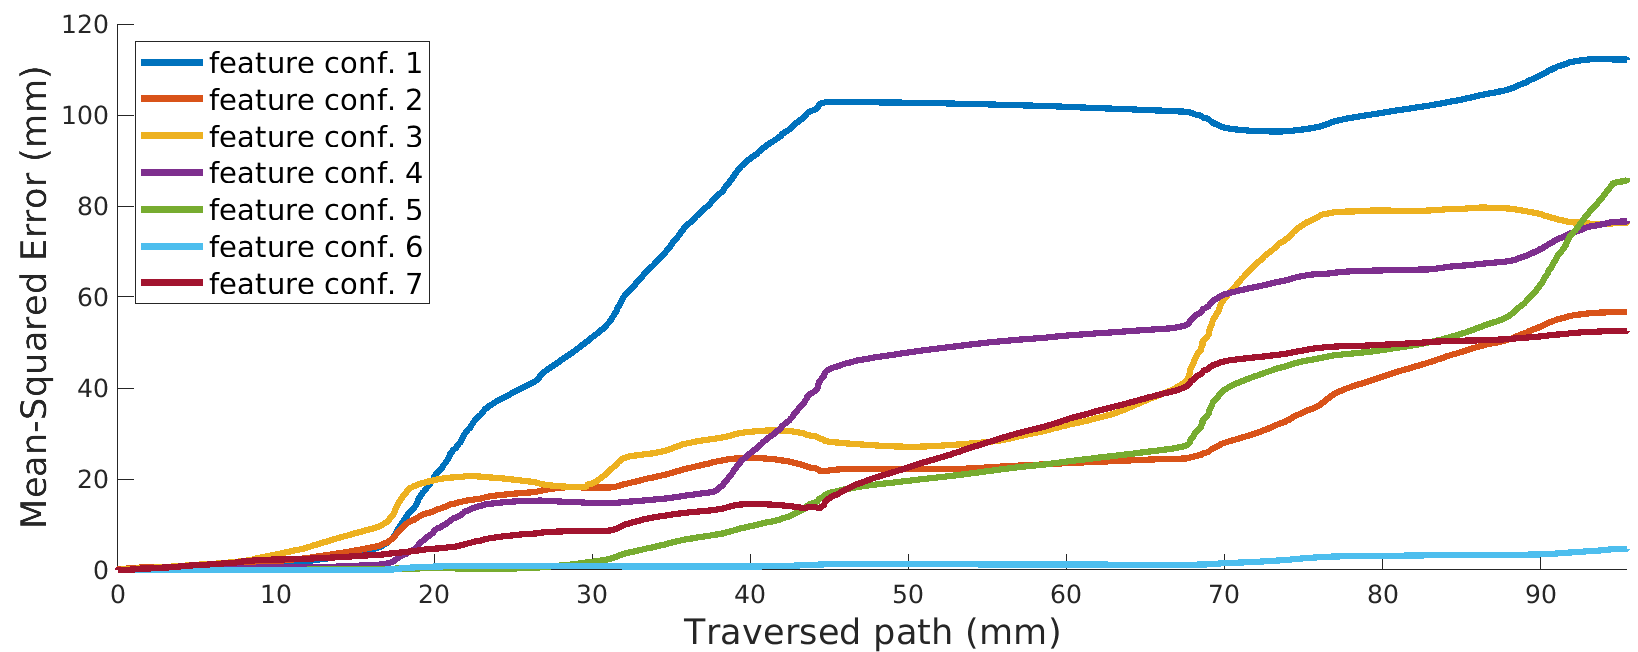
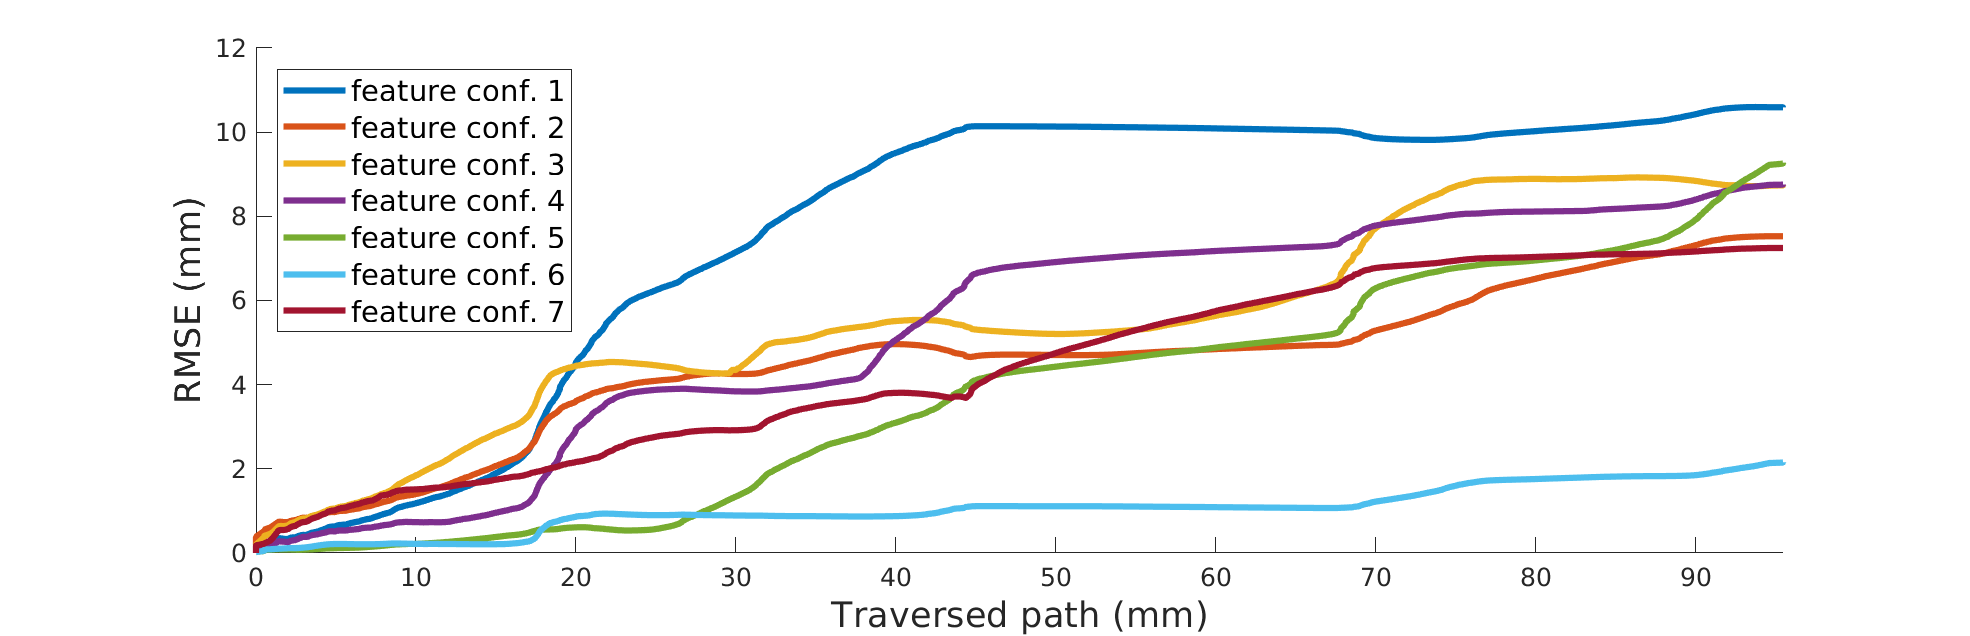
Chages

diff --git a/matlab/gp/simple_gp_all.m b/matlab/gp/simple_gp_all.m
@@ -1,20 +1,20 @@
 clear all
-for test_num = [9 12 14]
-
-for mode = [1 2 3 4 5 7 8]
+% for test_num = [9 12 14]
+% 
+% for mode = [1 2 3 4 5 7 8]
 warning('off','all')
 
 % if ~exist('is_nm','var')
 %     clear all
     
-% mode = 11;
+mode = 8;
 % end
 
 ps = parallel.Settings;
 ps.Pool.AutoCreate = false;
 % poolobj = gcp; % If no pool, do not create new one.
 
-% test_num = 9;
+test_num = 14;
 % w = [1 1 10 10 10 10 1 1 1];
 w = [];
 % switch mode
@@ -103,7 +103,7 @@ title(['open loop - ' num2str(mode) ', MSE: ' num2str(loss)]);
 disp(['Loss: ' num2str(loss)]);
 
 %%
-% load(['./paths_solution_mats/pred_' data_source '_' num2str(mode) '_' num2str(test_num) '.mat']);
+load(['./paths_solution_mats/pred_' data_source '_' I.test_data_source{1} '_' I.test_data_source{2} '_' num2str(mode) '.mat']);
 
 file = ['../../data/test_images/ca_' I.test_data_source{1} '_test' I.test_data_source{2} '/image_test' I.test_data_source{3} '_' num2str(I.im_min+size(Xtest,1)) '*.jpg'];
 files = dir(fullfile(file));
@@ -121,8 +121,8 @@ hold off
 % imshow(frame.cdata);
 
 % imwrite(frame.cdata, ['test' num2str(test_num) '_' num2str(data_source) '.png']);
-end
-end
+% end
+% end
 %% Closed loop
 
 % figure(2)

diff --git a/matlab/gp/paths_solution_mats/Run2.m b/matlab/gp/paths_solution_mats/Run2.m
@@ -1,0 +1,49 @@
+clear all
+clc
+
+K = [5 8];%[1 2 3 4 5 8 7];
+data_sources = {'26_1','30_3','36_2'};
+objs = {'Butter can','Glue stick','Hair-spary'};
+realFC = [5 6]; %[1 2 3 4 5 6 7];
+
+px2mm = 0.2621;
+
+% CumSumAll = [];
+L = cell(length(K)*length(data_sources),1);
+j = 1;
+for i = 1:length(data_sources)
+    
+    for k = 1:length(K)
+        
+        
+        load(['pred_all_' data_sources{i}  '_' num2str(K(k)) '.mat'] );
+        
+        [total_score, CumSum, d] = compare_paths(Sr(:,1:2)*px2mm, S*px2mm, I);
+        
+        disp(total_score);
+        
+        CumSumAll{j} = CumSum;
+        D{j} = d;
+        
+        L{j} = [objs{i} ', feature conf. ' num2str(realFC(k))];
+        
+        j = j + 1;
+    end
+end
+
+%%
+
+figure(1)
+clf
+hold on
+for i = 1:length(CumSumAll)
+    plot(D{i}, CumSumAll{i},'linewidth',3);
+end
+hold off
+set(gca, 'fontsize',12);
+legend(L,'location','northwest','fontsize',14);
+xlabel('Traversed path (mm)','fontsize',17);
+ylabel('RMSE (mm)','fontsize',17);
+xlim([0 d(end)]);
+
+% print(['cumsum_test_20_1.png'],'-dpng','-r150');

diff --git a/matlab/gp/paths_solution_mats/Run.m b/matlab/gp/paths_solution_mats/Run.m
@@ -1,6 +1,6 @@
 clear all
 
-K = [5 8]%[1 2 3 4 5 8 7];
+K = [1 2 3 4 5 8 7];
 
 px2mm = 0.2621;
 
@@ -8,8 +8,8 @@ CumSumAll = [];
 L = cell(length(K),1);
 for k = 1:length(K)
     
-% load(['pred_20_' num2str(K(k)) '_1.mat']);
-load(['pred_all_36_2_' num2str(K(k)) '.mat']);
+load(['pred_20_' num2str(K(k)) '_3.mat']);
+% load(['pred_all_30_3_' num2str(K(k)) '.mat']);
 
 [total_score, CumSum, d] = compare_paths(Sr(:,1:2)*px2mm, S*px2mm, I);
 
@@ -28,7 +28,7 @@ hold off
 set(gca, 'fontsize',12);
 legend(L,'location','northwest','fontsize',14);
 xlabel('Traversed path (mm)','fontsize',17);
-ylabel('Mean-Squared Error (mm)','fontsize',17);
+ylabel('RMSE (mm)','fontsize',17);
 xlim([0 d(end)]);
 
 % print(['cumsum_test_20_1.png'],'-dpng','-r150');

diff --git a/matlab/gp/compare2jacob.m b/matlab/gp/compare2jacob.m
@@ -41,7 +41,7 @@ DX = DX(id,:);
 K0 = [100, 100];
 % K = fminsearch(@(x)objfunc(x, DX),K0);
 
-K = [-1.00623980020688,1.49934686818620];
+K = [-0.995820726947830,1.52591298431857];
 %%
 
 px2mm = 0.2621;
@@ -86,6 +86,10 @@ end
     
 mse_J = mse_J/(size(Xtest,1)-2);
 mse_GP = mse_GP/(size(Xtest,1)-2);
+
+rmse_J = sqrt(mse_J);
+rmse_GP = sqrt(mse_GP);
+
 
 %%
 function f = objfunc(x, DX)
